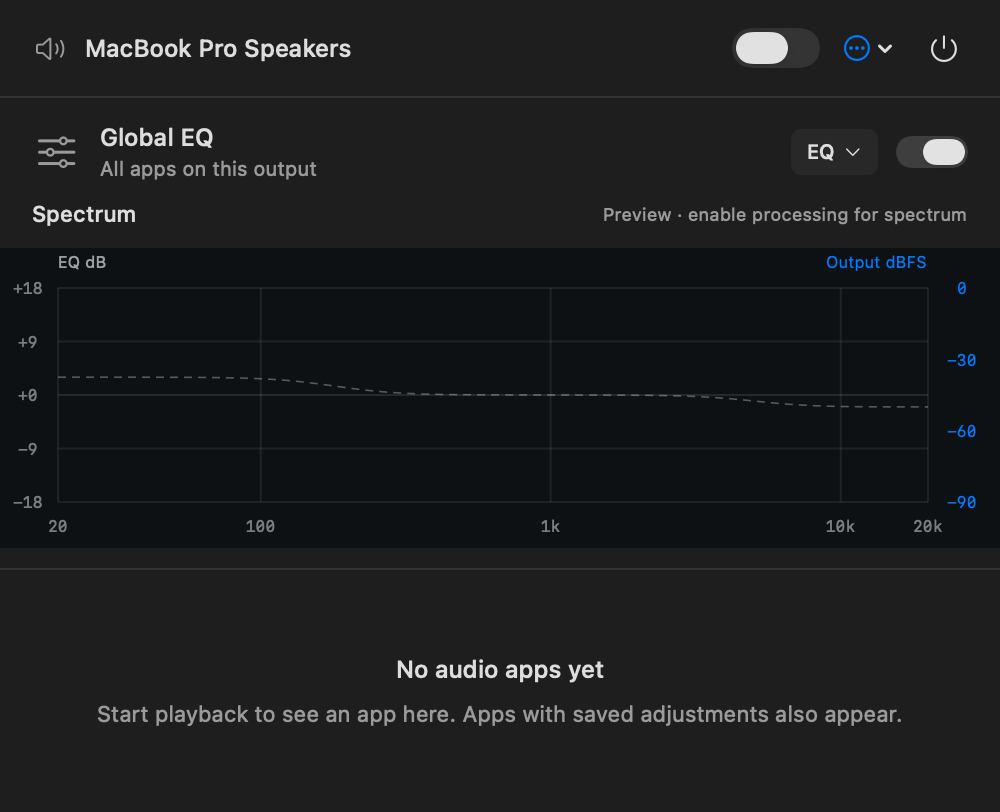
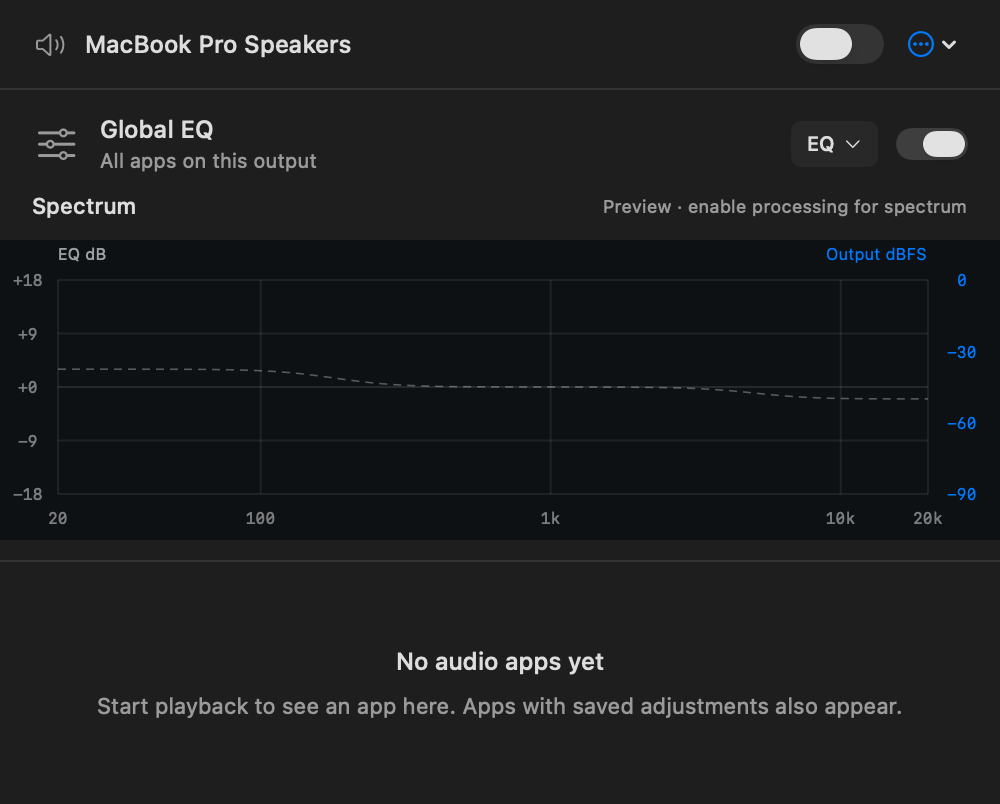
Restore visible EQ fades and move Quit into options menu

diff --git a/AppMixer/App/Sources/MixerView.swift b/AppMixer/App/Sources/MixerView.swift
@@ -32,15 +32,12 @@ struct MixerView: View {
                             NSPasteboard.general.clearContents()
                             NSPasteboard.general.setString(model.diagnostics, forType: .string)
                         }
+                        Divider()
+                        Button("Quit QEQ") { NSApp.terminate(nil) }
                     } label: {
                         Image(systemName: "ellipsis.circle")
                     }
                     .menuStyle(.borderlessButton).fixedSize().help("QEQ options").accessibilityLabel("QEQ options")
-                    Button {
-                        NSApp.terminate(nil)
-                    } label: {
-                        Image(systemName: "power").frame(width: 24, height: 24)
-                    }.buttonStyle(.plain).help("Quit QEQ").accessibilityLabel("Quit QEQ")
                 }.padding(.horizontal, 16).padding(.vertical, 12)
                 Divider()
                 if let error = model.snapshot.error {
@@ -111,7 +108,7 @@ struct MixerView: View {
                         Text("EQ")
                         Image(systemName: "chevron.down").font(.system(size: 8))
                             .rotationEffect(.degrees(selected ? 180 : 0))
-                            .animation(reduceMotion ? nil : .easeInOut(duration: 0.16), value: selected)
+                            .animation(reduceMotion ? nil : .easeInOut(duration: 0.24), value: selected)
                     }.font(.system(size: 10, weight: .medium)).padding(.horizontal, 8).padding(.vertical, 5)
                         .background(
                             selected ? Color.accentColor.opacity(0.14) : Color.secondary.opacity(0.08),
@@ -182,7 +179,7 @@ struct MixerView: View {
                         Text("EQ")
                         Image(systemName: "chevron.down").font(.system(size: 8))
                             .rotationEffect(.degrees(selected ? 180 : 0))
-                            .animation(reduceMotion ? nil : .easeInOut(duration: 0.16), value: selected)
+                            .animation(reduceMotion ? nil : .easeInOut(duration: 0.24), value: selected)
                     }
                     .font(.system(size: 10, weight: .medium)).padding(.horizontal, 8).padding(.vertical, 5)
                     .background(
@@ -267,9 +264,22 @@ private struct EQContentFade: ViewModifier {
     @State private var visible = false
 
     func body(content: Content) -> some View {
-        content.opacity(visible ? 1 : 0)
-            .animation(reduceMotion ? nil : .easeOut(duration: 0.16), value: visible)
-            .task { visible = true }
+        content.opacity(reduceMotion || visible ? 1 : 0)
+            .task(id: reduceMotion) {
+                guard !reduceMotion else {
+                    visible = true
+                    return
+                }
+                // An immediate task can finish before the first rendered frame,
+                // coalescing both opacity values into an invisible transition.
+                // Let initial layout and its nonanimated measurements settle first.
+                do {
+                    try await Task.sleep(for: .milliseconds(40))
+                } catch {
+                    return
+                }
+                withAnimation(.easeInOut(duration: 0.24)) { visible = true }
+            }
             .onDisappear { visible = false }
     }
 }

diff --git a/AppMixer/App/Sources/ScreenshotRenderer.swift b/AppMixer/App/Sources/ScreenshotRenderer.swift
@@ -24,7 +24,7 @@ struct ScreenshotRenderer {
         window.makeKeyAndOrderFront(nil)
         defer { window.orderOut(nil) }
         func layout() -> CGSize {
-            for _ in 0..<8 {
+            for _ in 0..<12 {
                 RunLoop.current.run(until: Date().addingTimeInterval(0.035))
                 host.view.layoutSubtreeIfNeeded()
                 let size = host.view.fittingSize

diff --git a/CHANGELOG.md b/CHANGELOG.md
@@ -2,7 +2,9 @@
 
 ## Unreleased
 
-- Remove the bottom status bar and place the options menu and Quit button beside the master switch.
+- Start EQ content fades after the first layout frame so they remain visible without animating geometry.
+
+- Remove the bottom status bar and place the options menu beside the master switch, with Quit inside the menu.
 
 - Collapse only the global visualizer while an app's EQ is expanded, keeping its header, bypass, and EQ button available. Keep viewport layout synchronous and bounded during EQ changes; animate only incoming content opacity and chevrons, respecting Reduce Motion.
 - Show the master switch without a visible label, default it to on, and remember the user's on/off choice across launches.
